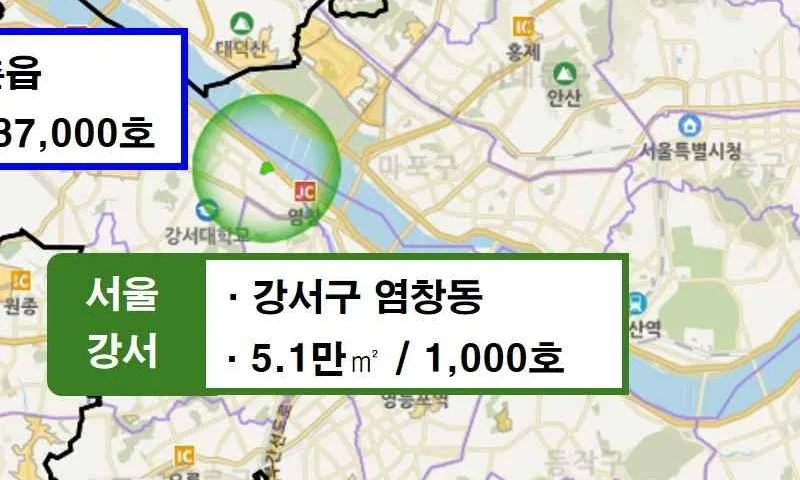
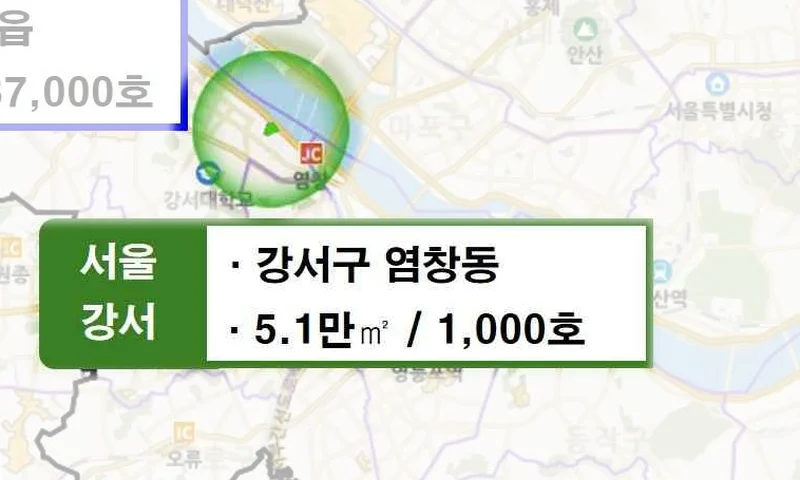
guide: 신규택지 지구별 설명 바로 아래에 그 지구 위치도 (지구만 또렷하게 다시 자름) + 그림 배치·편집 검수 규칙
Claude-Session: https://claude.ai/code/session_01BX5Lyfw1Hj3UPpyFh8mqbq

diff --git a/site/public/guide/new-taekji-2026/index.html b/site/public/guide/new-taekji-2026/index.html
@@ -44,7 +44,7 @@
       <span class="g-eyebrow"><i></i>신도시 가이드</span>
       <h1 class="g-h1">신규택지 후보지 6곳, 어디에 몇 호 짓고 언제 착공하나요?</h1>
       <p class="g-dek">국토교통부가 2026년 10월 29일 수도권 신규택지 6곳 7.67만 호를 발표했어요. 8·13 대책 3곳까지 약 10.4만 호의 위치와 착공 일정을 정리했어요.</p>
-      <p class="g-meta"><b>줍줍알람 편집팀</b><span>2026.10 기준</span><span>마지막 확인 2026.10.29</span><span>읽는 데 14분</span></p>
+      <p class="g-meta"><b>줍줍알람 편집팀</b><span>2026.10 기준</span><span>마지막 확인 2026.10.29</span><span>읽는 데 15분</span></p>
     </header>
     <figure class="g-cover">
       <div class="g-cover-wide"><svg viewBox='0 0 640 340' xmlns='http://www.w3.org/2000/svg' role='img' aria-label='서울 주변 신규택지 후보지 9곳 개략도'><rect width='640' height='340' fill='#FFFFFF'/><circle cx='190' cy='16' r='6' fill='#FF5233'/><text x='202' y='20' font-size='12' fill='#5B6472'>이번 발표 6곳 (2026.10.29)</text><circle cx='392' cy='16' r='6' fill='#FFFFFF' stroke='#1E4FD8' stroke-width='2' stroke-dasharray='3 2'/><text x='404' y='20' font-size='12' fill='#5B6472'>8·13 대책 3곳 (2026.8.13)</text><ellipse cx='300' cy='175' rx='95' ry='62' fill='#F4F6F9' stroke='#9AA3B2' stroke-width='1.5'/><text x='300' y='168' font-size='20' font-weight='700' fill='#0F1E3D' text-anchor='middle'>서울</text><text x='306' y='194' font-size='12' fill='#5B6472' text-anchor='middle'>개략도 · 실제 지도 아님</text><line x1='320' y1='108' x2='320' y2='82' stroke='#9AA3B2' stroke-width='1'/><line x1='228' y1='128' x2='184' y2='61' stroke='#9AA3B2' stroke-width='1'/><line x1='196' y1='160' x2='162' y2='131' stroke='#9AA3B2' stroke-width='1'/><line x1='222' y1='166' x2='162' y2='217' stroke='#9AA3B2' stroke-width='1'/><line x1='380' y1='128' x2='478' y2='55' stroke='#9AA3B2' stroke-width='1'/><line x1='414' y1='150' x2='478' y2='107' stroke='#9AA3B2' stroke-width='1'/><line x1='400' y1='182' x2='478' y2='159' stroke='#9AA3B2' stroke-width='1'/><line x1='378' y1='214' x2='478' y2='211' stroke='#9AA3B2' stroke-width='1'/><line x1='372' y1='258' x2='478' y2='263' stroke='#9AA3B2' stroke-width='1'/><circle cx='320' cy='108' r='6' fill='#FF5233'/><rect x='240' y='40' width='160' height='42' rx='8' fill='#FFF1EC' stroke='#FF5233' stroke-width='1.2'/><text x='252' y='58' font-size='14' font-weight='700' fill='#0F1E3D'>의정부다락원</text><text x='252' y='74' font-size='12' fill='#5B6472'>2,600호 · 28만㎡</text><circle cx='228' cy='128' r='6' fill='#FF5233'/><rect x='12' y='40' width='172' height='42' rx='8' fill='#FFF1EC' stroke='#FF5233' stroke-width='1.2'/><text x='24' y='58' font-size='13' font-weight='700' fill='#0F1E3D'>고양대곡지식융합(확장)</text><text x='24' y='74' font-size='12' fill='#5B6472'>4,000호 · 42만㎡</text><circle cx='196' cy='160' r='6' fill='#FF5233'/><rect x='12' y='110' width='150' height='42' rx='8' fill='#FFF1EC' stroke='#FF5233' stroke-width='1.2'/><text x='24' y='128' font-size='14' font-weight='700' fill='#0F1E3D'>김포아라</text><text x='24' y='144' font-size='12' fill='#5B6472'>3.7만 호 · 365만㎡</text><circle cx='222' cy='166' r='6' fill='#FFFFFF' stroke='#1E4FD8' stroke-width='2' stroke-dasharray='3 2'/><rect x='12' y='196' width='150' height='42' rx='8' fill='#FFFFFF' stroke='#1E4FD8' stroke-width='1.2' stroke-dasharray='4 3'/><text x='24' y='214' font-size='14' font-weight='700' fill='#0F1E3D'>서울강서</text><text x='24' y='230' font-size='12' fill='#5B6472'>1,000호 · 5.1만㎡</text><circle cx='380' cy='128' r='6' fill='#FF5233'/><rect x='478' y='34' width='150' height='42' rx='8' fill='#FFF1EC' stroke='#FF5233' stroke-width='1.2'/><text x='490' y='52' font-size='14' font-weight='700' fill='#0F1E3D'>구리건원</text><text x='490' y='68' font-size='12' fill='#5B6472'>1.46만 호 · 144만㎡</text><circle cx='414' cy='150' r='6' fill='#FFFFFF' stroke='#1E4FD8' stroke-width='2' stroke-dasharray='3 2'/><rect x='478' y='86' width='150' height='42' rx='8' fill='#FFFFFF' stroke='#1E4FD8' stroke-width='1.2' stroke-dasharray='4 3'/><text x='490' y='104' font-size='14' font-weight='700' fill='#0F1E3D'>남양주도심</text><text x='490' y='120' font-size='12' fill='#5B6472'>2.17만 호 · 228만㎡</text><circle cx='400' cy='182' r='6' fill='#FF5233'/><rect x='478' y='138' width='150' height='42' rx='8' fill='#FFF1EC' stroke='#FF5233' stroke-width='1.2'/><text x='490' y='156' font-size='14' font-weight='700' fill='#0F1E3D'>하남미사 K-컬처</text><text x='490' y='172' font-size='12' fill='#5B6472'>1.2만 호 · 131만㎡</text><circle cx='378' cy='214' r='6' fill='#FF5233'/><rect x='478' y='190' width='150' height='42' rx='8' fill='#FFF1EC' stroke='#FF5233' stroke-width='1.2'/><text x='490' y='208' font-size='14' font-weight='700' fill='#0F1E3D'>하남감일2</text><text x='490' y='224' font-size='12' fill='#5B6472'>6,500호 · 71만㎡</text><circle cx='372' cy='258' r='6' fill='#FFFFFF' stroke='#1E4FD8' stroke-width='2' stroke-dasharray='3 2'/><rect x='478' y='242' width='150' height='42' rx='8' fill='#FFFFFF' stroke='#1E4FD8' stroke-width='1.2' stroke-dasharray='4 3'/><text x='490' y='260' font-size='14' font-weight='700' fill='#0F1E3D'>광주역세권2</text><text x='490' y='276' font-size='12' fill='#5B6472'>4,500호 · 48만㎡</text><line x1='16' y1='300' x2='624' y2='300' stroke='#E3E7ED' stroke-width='1'/><text x='320' y='324' font-size='14' fill='#0F1E3D' text-anchor='middle'><tspan font-weight='700' fill='#C8361A'>이번 6곳 7.67만 호</tspan> + 8·13 대책 3곳 2.72만 호 = <tspan font-weight='700'>약 10.4만 호</tspan></text></svg></div>
@@ -117,19 +117,29 @@
 <p>계획 호수는 후보지 단계 숫자라, 지구계획(「공공주택 특별법」 제17조)의 주택 수용계획에서 달라질 수 있어요.</p>
 <aside class="g-note"><b>&#x27;4기 신도시&#x27;는 공식 이름이 아니에요</b><p>'4기 신도시'라고 부르는 경우도 있지만, 국토교통부 보도자료에는 '신도시'가 아니라 '신규택지 후보지'라고 나와요. 법적으로는 「공공주택 특별법」에 따른 공공주택지구로 지정될 후보지예요. 3기 신도시 일정과 비교하려면 <a href="/guide/new-town-3rd/">3기 신도시 총정리</a>를 함께 보세요.</p></aside>
 <h2 id="s2"><span class="n">02</span>김포 고촌·구리 사노동·하남 감일·대곡역세권, 지구별로 뭐가 다른가요?</h2>
-<ul>
-<li><strong>김포아라(김포 고촌읍)</strong>: 서울 강서구와 맞닿은 한강변이에요. 인근 5호선 연장사업이 2026년 3월 예비타당성조사를 통과했고, 발표 브리핑에서는 경기도가 기본계획 수립에 들어갔다고 설명했어요(보도 기준). 한강시네폴리스 일반산업단지·고촌 물류단지와 연계한 자족형 생활권이 목표예요.</li>
-<li><strong>구리건원(구리 사노동)</strong>: 원래 '구리 E-커머스 신성장 첨단도시 조성사업'을 추진하던 곳이에요. 사업성 부족 등으로 오래 보류돼, 공공주택사업지구로 방식을 바꿔 조성할 예정이에요. 용암천·왕숙천 수변생활권과 농수산물도매시장 이전 검토가 함께 나왔어요.</li>
-<li><strong>하남미사 K-컬처(하남 미사동)</strong>: 미사섬 인근으로 5호선이 지나고, 주변에서 3호선·9호선 연장사업이 추진 중이에요. 미사경정공원·한강 수변 공원과 K-컬처 복합단지 구축방안을 함께 마련한다고 했어요.</li>
-<li><strong>하남감일2(하남 감일동)</strong>: 감이천을 따라 올림픽공원·한강으로 가기 좋은 곳이에요. 감일지구에서 추진 중인 3호선 연장사업과 연계하고, 기존 감일지구와 하나의 생활권으로 묶는다는 계획이에요. 하남교산 광역교통개선대책과 연계한 서하남IC 개선 검토도 언급됐어요.</li>
-<li><strong>고양대곡지식융합(확장, 고양 대곡동)</strong>: 대곡역은 GTX-A·3호선 등 5개 철도 노선이 만나는 역이에요. 2026년 9월 지구지정된 기존 지구는 대곡역 북측만 포함해, 남측 부지 일부를 더해 통합 역세권으로 개발한다는 설명이에요.</li>
-<li><strong>의정부다락원(의정부 호원동)</strong>: 주한미군 반환공여지인 캠프잭슨이 포함된 부지예요. 1·7호선 환승역인 도봉산역과 가깝다고 발표됐어요.</li>
-</ul>
-<div class="g-img"><div class="g-gal"><figure><a href="gimpo-ara.webp" target="_blank" rel="noopener"><img src="gimpo-ara.webp" alt="김포아라 · 김포시 고촌읍 · 365만㎡ · 3만7,000호" loading="lazy" decoding="async" width="800" height="480"></a><figcaption>김포아라 · 김포시 고촌읍 · 365만㎡ · 3만7,000호</figcaption></figure><figure><a href="guri-geonwon.webp" target="_blank" rel="noopener"><img src="guri-geonwon.webp" alt="구리건원 · 구리시 사노동 · 144만㎡ · 1만4,600호" loading="lazy" decoding="async" width="800" height="480"></a><figcaption>구리건원 · 구리시 사노동 · 144만㎡ · 1만4,600호</figcaption></figure><figure><a href="hanam-misa.webp" target="_blank" rel="noopener"><img src="hanam-misa.webp" alt="하남미사 K-컬처 · 하남시 미사동 · 131만㎡ · 1만2,000호" loading="lazy" decoding="async" width="800" height="480"></a><figcaption>하남미사 K-컬처 · 하남시 미사동 · 131만㎡ · 1만2,000호</figcaption></figure><figure><a href="hanam-gamil2.webp" target="_blank" rel="noopener"><img src="hanam-gamil2.webp" alt="하남감일2 · 하남시 감일동 · 71만㎡ · 6,500호" loading="lazy" decoding="async" width="800" height="480"></a><figcaption>하남감일2 · 하남시 감일동 · 71만㎡ · 6,500호</figcaption></figure><figure><a href="goyang-daegok.webp" target="_blank" rel="noopener"><img src="goyang-daegok.webp" alt="고양대곡지식융합(확장) · 고양시 대곡동 · 42만㎡ · 4,000호" loading="lazy" decoding="async" width="800" height="480"></a><figcaption>고양대곡지식융합(확장) · 고양시 대곡동 · 42만㎡ · 4,000호</figcaption></figure><figure><a href="uijeongbu-darakwon.webp" target="_blank" rel="noopener"><img src="uijeongbu-darakwon.webp" alt="의정부다락원 · 의정부시 호원동 · 28만㎡ · 2,600호" loading="lazy" decoding="async" width="800" height="480"></a><figcaption>의정부다락원 · 의정부시 호원동 · 28만㎡ · 2,600호</figcaption></figure></div><p class="g-imgcap">지구별 위치 — 국토교통부 보도자료 위치도에서 지구 주변을 확대한 그림이에요.</p></div>
-<p>하남감일2는 지구 경계와 개발 방향을 그린 개발구상(안)도 함께 공개됐어요. 그림에는 감이천과 서하남IC, 3호선 연장(예정) 노선과 예정 역 위치가 함께 표시돼 있어요. 구상안은 지구지정·지구계획 과정에서 바뀔 수 있어요.</p>
-<div class="g-img"><div class="g-one"><figure><a href="hanam-gamil2-plan.webp" target="_blank" rel="noopener"><img src="hanam-gamil2-plan.webp" alt="하남감일2 개발구상(안) (국토교통부)" loading="lazy" decoding="async" width="736" height="754"></a></figure></div><p class="g-imgcap">하남감일2 개발구상(안) — 국토교통부 발표 자료(2026.10.29). 지구계획 과정에서 바뀔 수 있어요.</p></div>
+<p>6곳을 하나씩 볼게요. 지구마다 위치도를 바로 아래에 붙였어요 (진하게 보이는 곳이 그 지구예요).</p>
+<h3>김포아라 — 김포시 고촌읍 · 365만㎡ · 3만7,000호</h3>
+<p>서울 강서구와 맞닿은 한강변이에요. 인근 5호선 연장사업이 2026년 3월 예비타당성조사를 통과했고, 발표 브리핑에서는 경기도가 기본계획 수립에 들어갔다고 설명했어요(보도 기준). 한강시네폴리스 일반산업단지·고촌 물류단지와 연계한 자족형 생활권이 목표예요.</p>
+<div class="g-img"><div class="g-one"><figure><a href="gimpo-ara.webp" target="_blank" rel="noopener"><img src="gimpo-ara.webp" alt="김포아라 위치 (김포시 고촌읍)" loading="lazy" decoding="async" width="800" height="480"></a></figure></div><p class="g-imgcap">김포아라 위치 (김포시 고촌읍) — 국토교통부 보도자료(2026.10.29) 위치도에서 이 지구를 확대했어요.</p></div>
 <p><strong>김포아라와 김포한강2는 다른 곳이에요.</strong> 김포에는 2022.11.11 발표된 '김포한강2 콤팩트시티'(731만㎡, 4만 6,000호)가 따로 있어요. 김포한강2의 발표 위치는 마산동·운양동·장기동·양촌읍 일대이고, 김포아라는 고촌읍이에요.</p>
-<p>구리도 비슷해요. 2023.11.15 발표된 구리토평2(1만 8,500가구)와 이번 구리건원(사노동)은 서로 다른 시기에 따로 나온 후보지예요.</p>
+<h3>구리건원 — 구리시 사노동 · 144만㎡ · 1만4,600호</h3>
+<p>원래 '구리 E-커머스 신성장 첨단도시 조성사업'을 추진하던 곳이에요. 사업성 부족 등으로 오래 보류돼, 공공주택사업지구로 방식을 바꿔 조성할 예정이에요. 용암천·왕숙천 수변생활권과 농수산물도매시장 이전 검토가 함께 나왔어요.</p>
+<div class="g-img"><div class="g-one"><figure><a href="guri-geonwon.webp" target="_blank" rel="noopener"><img src="guri-geonwon.webp" alt="구리건원 위치 (구리시 사노동)" loading="lazy" decoding="async" width="800" height="480"></a></figure></div><p class="g-imgcap">구리건원 위치 (구리시 사노동) — 국토교통부 보도자료(2026.10.29) 위치도에서 이 지구를 확대했어요.</p></div>
+<p>2023.11.15 발표된 구리토평2(1만 8,500가구)와 이번 구리건원(사노동)은 서로 다른 시기에 따로 나온 후보지예요.</p>
+<h3>하남미사 K-컬처 — 하남시 미사동 · 131만㎡ · 1만2,000호</h3>
+<p>미사섬 인근으로 5호선이 지나고, 주변에서 3호선·9호선 연장사업이 추진 중이에요. 미사경정공원·한강 수변 공원과 K-컬처 복합단지 구축방안을 함께 마련한다고 했어요.</p>
+<div class="g-img"><div class="g-one"><figure><a href="hanam-misa.webp" target="_blank" rel="noopener"><img src="hanam-misa.webp" alt="하남미사 K-컬처 위치 (하남시 미사동)" loading="lazy" decoding="async" width="800" height="480"></a></figure></div><p class="g-imgcap">하남미사 K-컬처 위치 (하남시 미사동) — 국토교통부 보도자료(2026.10.29) 위치도에서 이 지구를 확대했어요.</p></div>
+<h3>하남감일2 — 하남시 감일동 · 71만㎡ · 6,500호</h3>
+<p>감이천을 따라 올림픽공원·한강으로 가기 좋은 곳이에요. 감일지구에서 추진 중인 3호선 연장사업과 연계하고, 기존 감일지구와 하나의 생활권으로 묶는다는 계획이에요. 하남교산 광역교통개선대책과 연계한 서하남IC 개선 검토도 언급됐어요.</p>
+<div class="g-img"><div class="g-one"><figure><a href="hanam-gamil2.webp" target="_blank" rel="noopener"><img src="hanam-gamil2.webp" alt="하남감일2 위치 (하남시 감일동)" loading="lazy" decoding="async" width="800" height="480"></a></figure></div><p class="g-imgcap">하남감일2 위치 (하남시 감일동) — 국토교통부 보도자료(2026.10.29) 위치도에서 이 지구를 확대했어요.</p></div>
+<p>하남감일2는 지구 경계와 개발 방향을 그린 개발구상(안)도 함께 볼 수 있어요. 그림에는 감이천과 서하남IC, 3호선 연장(예정) 노선과 예정 역 위치가 표시돼 있어요. 구상안은 지구지정·지구계획 과정에서 바뀔 수 있어요.</p>
+<div class="g-img"><div class="g-one"><figure><a href="hanam-gamil2-plan.webp" target="_blank" rel="noopener"><img src="hanam-gamil2-plan.webp" alt="하남감일2 개발구상(안) (국토교통부)" loading="lazy" decoding="async" width="736" height="754"></a></figure></div><p class="g-imgcap">하남감일2 개발구상(안) — 국토교통부 발표 자료(2026.10.29). 지구계획 과정에서 바뀔 수 있어요.</p></div>
+<h3>고양대곡지식융합(확장) — 고양시 대곡동 · 42만㎡ · 4,000호</h3>
+<p>대곡역은 GTX-A·3호선 등 5개 철도 노선이 만나는 역이에요. 2026년 9월 지구지정된 기존 지구는 대곡역 북측만 포함해, 남측 부지 일부를 더해 통합 역세권으로 개발한다는 설명이에요.</p>
+<div class="g-img"><div class="g-one"><figure><a href="goyang-daegok.webp" target="_blank" rel="noopener"><img src="goyang-daegok.webp" alt="고양대곡지식융합(확장) 위치 (고양시 대곡동)" loading="lazy" decoding="async" width="800" height="480"></a></figure></div><p class="g-imgcap">고양대곡지식융합(확장) 위치 (고양시 대곡동) — 국토교통부 보도자료(2026.10.29) 위치도에서 이 지구를 확대했어요.</p></div>
+<h3>의정부다락원 — 의정부시 호원동 · 28만㎡ · 2,600호</h3>
+<p>주한미군 반환공여지인 캠프잭슨이 포함된 부지예요. 1·7호선 환승역인 도봉산역과 가깝다고 발표됐어요.</p>
+<div class="g-img"><div class="g-one"><figure><a href="uijeongbu-darakwon.webp" target="_blank" rel="noopener"><img src="uijeongbu-darakwon.webp" alt="의정부다락원 위치 (의정부시 호원동)" loading="lazy" decoding="async" width="800" height="480"></a></figure></div><p class="g-imgcap">의정부다락원 위치 (의정부시 호원동) — 국토교통부 보도자료(2026.10.29) 위치도에서 이 지구를 확대했어요.</p></div>
 <h2 id="s3"><span class="n">03</span>8·13 대책 3곳까지 합치면 10.4만 호, 일정은요?</h2>
 <p>8·13 대책에서는 신규 공공주택지구 2.7만 호의 위치를 먼저 공개하고, 나머지 7.3만 호+α는 연내 추가 발표한다고 했어요. 이번에 나온 물량이 7.67만 호예요.</p>
 <div class="tbl"><table class="g-table">
@@ -166,8 +176,15 @@
 </tr>
 </tbody>
 </table></div>
-<div class="g-img"><div class="g-gal"><figure><a href="seoul-gangseo.webp" target="_blank" rel="noopener"><img src="seoul-gangseo.webp" alt="서울강서 · 강서구 염창동 · 5.1만㎡ · 1,000호" loading="lazy" decoding="async" width="800" height="480"></a><figcaption>서울강서 · 강서구 염창동 · 5.1만㎡ · 1,000호</figcaption></figure><figure><a href="namyangju-dosim.webp" target="_blank" rel="noopener"><img src="namyangju-dosim.webp" alt="남양주도심 · 남양주시 와부읍 · 228만㎡ · 2만1,700호" loading="lazy" decoding="async" width="800" height="480"></a><figcaption>남양주도심 · 남양주시 와부읍 · 228만㎡ · 2만1,700호</figcaption></figure><figure><a href="gwangju-station2.webp" target="_blank" rel="noopener"><img src="gwangju-station2.webp" alt="광주역세권2 · 광주시 장지동 · 48만㎡ · 4,500호" loading="lazy" decoding="async" width="800" height="480"></a><figcaption>광주역세권2 · 광주시 장지동 · 48만㎡ · 4,500호</figcaption></figure></div><p class="g-imgcap">8·13 대책 3곳 위치 — 국토교통부 보도자료(2026.10.29) 위치도 확대</p></div>
-<p>서울강서는 2006년 민간 개발사업이 취소된 뒤 20년간 방치된 염창공원 부지예요. 남양주도심은 경의중앙선 도심역과 가깝고 고려대학교 덕소농장이 있는 그린벨트 지역이에요. 광주역세권2는 경강선 경기광주역 인접지이고, 수서-광주선이 2031년 개통 예정이라고 했어요.</p>
+<h3>서울강서 — 서울 강서구 염창동 · 5.1만㎡ · 1,000호</h3>
+<p>2006년 민간 개발사업이 취소된 뒤 20년간 방치된 염창공원 부지예요.</p>
+<div class="g-img"><div class="g-one"><figure><a href="seoul-gangseo.webp" target="_blank" rel="noopener"><img src="seoul-gangseo.webp" alt="서울강서 위치 (강서구 염창동)" loading="lazy" decoding="async" width="800" height="480"></a></figure></div><p class="g-imgcap">서울강서 위치 (강서구 염창동) — 국토교통부 보도자료(2026.10.29) 위치도에서 이 지구를 확대했어요.</p></div>
+<h3>남양주도심 — 남양주시 와부읍 · 228만㎡ · 2만1,700호</h3>
+<p>경의중앙선 도심역과 가깝고 고려대학교 덕소농장이 있는 그린벨트 지역이에요.</p>
+<div class="g-img"><div class="g-one"><figure><a href="namyangju-dosim.webp" target="_blank" rel="noopener"><img src="namyangju-dosim.webp" alt="남양주도심 위치 (남양주시 와부읍)" loading="lazy" decoding="async" width="800" height="480"></a></figure></div><p class="g-imgcap">남양주도심 위치 (남양주시 와부읍) — 국토교통부 보도자료(2026.10.29) 위치도에서 이 지구를 확대했어요.</p></div>
+<h3>광주역세권2 — 광주시 장지동 · 48만㎡ · 4,500호</h3>
+<p>경강선 경기광주역 인접지이고, 수서-광주선이 2031년 개통 예정이라고 했어요.</p>
+<div class="g-img"><div class="g-one"><figure><a href="gwangju-station2.webp" target="_blank" rel="noopener"><img src="gwangju-station2.webp" alt="광주역세권2 위치 (광주시 장지동)" loading="lazy" decoding="async" width="800" height="480"></a></figure></div><p class="g-imgcap">광주역세권2 위치 (광주시 장지동) — 국토교통부 보도자료(2026.10.29) 위치도에서 이 지구를 확대했어요.</p></div>
 <p>세 곳 모두 사업시행자는 LH(예정), 호수는 '조정 가능'이에요. 9곳을 더하면 10만 3,900호이고, 국토교통부는 이를 '신규택지 10.4만호'로 묶었어요.</p>
 <h2 id="s4"><span class="n">04</span>신규택지 언제 착공하고 언제 분양하나요?</h2>
 <p>이번 6곳에는 8·13 대책에서 만든 '공공택지 최단기 착공모델'이 적용돼요. 지구지정 단계부터 단계별 조기화 방안을 적용해 2030년 안에 착공하는 게 목표예요.</p>

diff --git a/site/public/guide/index.html b/site/public/guide/index.html
@@ -168,7 +168,7 @@
           <span class="g-ct"><b>하남 교산신도시, 언제 누가 어떻게 청약하나요?</b><span>686만㎡에 3.7만 호, 첫 본청약은 2025년 3월 A-2BL 1,115세대. 송파하남선은 2032년 개통이 목표예요. 하남 거주자 우선 30%의 구조도 담았어요.</span><small>2026.10 기준 · 읽는 데 15분</small></span>
         </a>        <a class="g-card" href="/guide/new-taekji-2026/">
           <span class="g-thumb" aria-hidden="true"><svg viewBox='0 0 340 608' xmlns='http://www.w3.org/2000/svg' role='img' aria-label='서울 주변 신규택지 후보지 9곳 개략도'><rect width='340' height='608' fill='#FFFFFF'/><circle cx='22' cy='16' r='6' fill='#FF5233'/><text x='33' y='20' font-size='12' fill='#5B6472'>이번 발표 6곳</text><circle cx='150' cy='16' r='6' fill='#FFFFFF' stroke='#1E4FD8' stroke-width='2' stroke-dasharray='3 2'/><text x='161' y='20' font-size='12' fill='#5B6472'>8·13 대책 3곳</text><ellipse cx='170' cy='122' rx='70' ry='46' fill='#F4F6F9' stroke='#9AA3B2' stroke-width='1.5'/><text x='170' y='128' font-size='16' font-weight='700' fill='#0F1E3D' text-anchor='middle'>서울</text><circle cx='186.0' cy='68.4' r='10' fill='#FF5233'/><text x='186.0' y='72.4' font-size='12' font-weight='700' fill='#FFFFFF' text-anchor='middle'>6</text><circle cx='112.4' cy='84.4' r='10' fill='#FF5233'/><text x='112.4' y='88.4' font-size='12' font-weight='700' fill='#FFFFFF' text-anchor='middle'>5</text><circle cx='86.8' cy='110.0' r='10' fill='#FF5233'/><text x='86.8' y='114.0' font-size='12' font-weight='700' fill='#FFFFFF' text-anchor='middle'>1</text><circle cx='107.6' cy='114.8' r='10' fill='#FFFFFF' stroke='#1E4FD8' stroke-width='2' stroke-dasharray='3 2'/><text x='107.6' y='118.8' font-size='12' font-weight='700' fill='#1E4FD8' text-anchor='middle'>7</text><circle cx='234.0' cy='84.4' r='10' fill='#FF5233'/><text x='234.0' y='88.4' font-size='12' font-weight='700' fill='#FFFFFF' text-anchor='middle'>2</text><circle cx='261.2' cy='102.0' r='10' fill='#FFFFFF' stroke='#1E4FD8' stroke-width='2' stroke-dasharray='3 2'/><text x='261.2' y='106.0' font-size='12' font-weight='700' fill='#1E4FD8' text-anchor='middle'>8</text><circle cx='250.0' cy='127.6' r='10' fill='#FF5233'/><text x='250.0' y='131.6' font-size='12' font-weight='700' fill='#FFFFFF' text-anchor='middle'>3</text><circle cx='232.4' cy='153.2' r='10' fill='#FF5233'/><text x='232.4' y='157.2' font-size='12' font-weight='700' fill='#FFFFFF' text-anchor='middle'>4</text><circle cx='227.6' cy='188.4' r='10' fill='#FFFFFF' stroke='#1E4FD8' stroke-width='2' stroke-dasharray='3 2'/><text x='227.6' y='192.4' font-size='12' font-weight='700' fill='#1E4FD8' text-anchor='middle'>9</text><text x='170' y='216' font-size='12' fill='#5B6472' text-anchor='middle'>개략도 · 방향 감각만 나타냄 (실제 지도 아님)</text><line x1='16' y1='226' x2='324' y2='226' stroke='#E3E7ED' stroke-width='1'/><text x='16' y='252' font-size='13' font-weight='700' fill='#C8361A'>이번 발표 6곳 · 7.67만 호</text><circle cx='30' cy='280' r='10' fill='#FF5233'/><text x='30' y='284' font-size='12' font-weight='700' fill='#FFFFFF' text-anchor='middle'>1</text><text x='48' y='285' font-size='14' font-weight='700' fill='#0F1E3D'>김포아라</text><text x='324' y='285' font-size='12' fill='#5B6472' text-anchor='end'>3.7만 호 · 365만㎡</text><rect x='12' y='296' width='316' height='32' fill='#F4F6F9'/><circle cx='30' cy='312' r='10' fill='#FF5233'/><text x='30' y='316' font-size='12' font-weight='700' fill='#FFFFFF' text-anchor='middle'>2</text><text x='48' y='317' font-size='14' font-weight='700' fill='#0F1E3D'>구리건원</text><text x='324' y='317' font-size='12' fill='#5B6472' text-anchor='end'>1.46만 호 · 144만㎡</text><circle cx='30' cy='344' r='10' fill='#FF5233'/><text x='30' y='348' font-size='12' font-weight='700' fill='#FFFFFF' text-anchor='middle'>3</text><text x='48' y='349' font-size='14' font-weight='700' fill='#0F1E3D'>하남미사 K-컬처</text><text x='324' y='349' font-size='12' fill='#5B6472' text-anchor='end'>1.2만 호 · 131만㎡</text><rect x='12' y='360' width='316' height='32' fill='#F4F6F9'/><circle cx='30' cy='376' r='10' fill='#FF5233'/><text x='30' y='380' font-size='12' font-weight='700' fill='#FFFFFF' text-anchor='middle'>4</text><text x='48' y='381' font-size='14' font-weight='700' fill='#0F1E3D'>하남감일2</text><text x='324' y='381' font-size='12' fill='#5B6472' text-anchor='end'>6,500호 · 71만㎡</text><circle cx='30' cy='408' r='10' fill='#FF5233'/><text x='30' y='412' font-size='12' font-weight='700' fill='#FFFFFF' text-anchor='middle'>5</text><text x='48' y='413' font-size='13' font-weight='700' fill='#0F1E3D'>고양대곡지식융합(확장)</text><text x='324' y='413' font-size='12' fill='#5B6472' text-anchor='end'>4,000호 · 42만㎡</text><rect x='12' y='424' width='316' height='32' fill='#F4F6F9'/><circle cx='30' cy='440' r='10' fill='#FF5233'/><text x='30' y='444' font-size='12' font-weight='700' fill='#FFFFFF' text-anchor='middle'>6</text><text x='48' y='445' font-size='14' font-weight='700' fill='#0F1E3D'>의정부다락원</text><text x='324' y='445' font-size='12' fill='#5B6472' text-anchor='end'>2,600호 · 28만㎡</text><text x='16' y='484' font-size='13' font-weight='700' fill='#1E4FD8'>8·13 대책 3곳 · 2.72만 호</text><circle cx='30' cy='512' r='10' fill='#FFFFFF' stroke='#1E4FD8' stroke-width='2' stroke-dasharray='3 2'/><text x='30' y='516' font-size='12' font-weight='700' fill='#1E4FD8' text-anchor='middle'>7</text><text x='48' y='517' font-size='14' font-weight='700' fill='#0F1E3D'>서울강서</text><text x='324' y='517' font-size='12' fill='#5B6472' text-anchor='end'>1,000호 · 5.1만㎡</text><rect x='12' y='528' width='316' height='32' fill='#F4F6F9'/><circle cx='30' cy='544' r='10' fill='#FFFFFF' stroke='#1E4FD8' stroke-width='2' stroke-dasharray='3 2'/><text x='30' y='548' font-size='12' font-weight='700' fill='#1E4FD8' text-anchor='middle'>8</text><text x='48' y='549' font-size='14' font-weight='700' fill='#0F1E3D'>남양주도심</text><text x='324' y='549' font-size='12' fill='#5B6472' text-anchor='end'>2.17만 호 · 228만㎡</text><circle cx='30' cy='576' r='10' fill='#FFFFFF' stroke='#1E4FD8' stroke-width='2' stroke-dasharray='3 2'/><text x='30' y='580' font-size='12' font-weight='700' fill='#1E4FD8' text-anchor='middle'>9</text><text x='48' y='581' font-size='14' font-weight='700' fill='#0F1E3D'>광주역세권2</text><text x='324' y='581' font-size='12' fill='#5B6472' text-anchor='end'>4,500호 · 48만㎡</text></svg></span>
-          <span class="g-ct"><b>신규택지 후보지 6곳, 어디에 몇 호 짓고 언제 착공하나요?</b><span>국토교통부가 2026년 10월 29일 수도권 신규택지 6곳 7.67만 호를 발표했어요. 8·13 대책 3곳까지 약 10.4만 호의 위치와 착공 일정을 정리했어요.</span><small>2026.10 기준 · 읽는 데 14분</small></span>
+          <span class="g-ct"><b>신규택지 후보지 6곳, 어디에 몇 호 짓고 언제 착공하나요?</b><span>국토교통부가 2026년 10월 29일 수도권 신규택지 6곳 7.67만 호를 발표했어요. 8·13 대책 3곳까지 약 10.4만 호의 위치와 착공 일정을 정리했어요.</span><small>2026.10 기준 · 읽는 데 15분</small></span>
         </a>        <a class="g-card" href="/guide/new-town-3rd/">
           <span class="g-thumb" aria-hidden="true"><svg viewBox='0 0 340 530' xmlns='http://www.w3.org/2000/svg' role='img' aria-label='서울 주변 3기 신도시와 추가 지구 개략도'><rect width='340' height='530' fill='#FFFFFF'/><circle cx='22' cy='18' r='6' fill='#FF5233'/><text x='33' y='22' font-size='12' fill='#5B6472'>3기 신도시</text><circle cx='130' cy='18' r='6' fill='#FFFFFF' stroke='#1E4FD8' stroke-width='2' stroke-dasharray='3 2'/><text x='141' y='22' font-size='12' fill='#5B6472'>추가 지구</text><ellipse cx='170' cy='115' rx='76.0' ry='49.6' fill='#F4F6F9' stroke='#9AA3B2' stroke-width='1.5'/><text x='170' y='121' font-size='16' font-weight='700' fill='#0F1E3D' text-anchor='middle'>서울</text><text x='170' y='236' font-size='12' fill='#5B6472' text-anchor='middle'>개략도 · 방향과 거리 감각만 나타냄</text><line x1='16' y1='245' x2='324' y2='245' stroke='#E3E7ED' stroke-width='1'/><circle cx='66.0' cy='107.0' r='10' fill='#FF5233'/><text x='66.0' y='111.0' font-size='12' font-weight='700' fill='#FFFFFF' text-anchor='middle'>1</text><circle cx='30' cy='269.0' r='10' fill='#FF5233'/><text x='30' y='273.0' font-size='12' font-weight='700' fill='#FFFFFF' text-anchor='middle'>1</text><text x='50' y='274.0' font-size='14' font-weight='700' fill='#0F1E3D'>인천 계양</text><text x='322' y='274.0' font-size='13' fill='#5B6472' text-anchor='end'>1.8만 호 · 335만㎡</text><circle cx='106.0' cy='71.0' r='10' fill='#FF5233'/><text x='106.0' y='75.0' font-size='12' font-weight='700' fill='#FFFFFF' text-anchor='middle'>2</text><rect x='12' y='286' width='316' height='34' fill='#F4F6F9'/><circle cx='30' cy='303.0' r='10' fill='#FF5233'/><text x='30' y='307.0' font-size='12' font-weight='700' fill='#FFFFFF' text-anchor='middle'>2</text><text x='50' y='308.0' font-size='14' font-weight='700' fill='#0F1E3D'>고양 창릉</text><text x='322' y='308.0' font-size='13' fill='#5B6472' text-anchor='end'>3.8만 호 · 812만㎡</text><circle cx='258.0' cy='139.0' r='10' fill='#FF5233'/><text x='258.0' y='143.0' font-size='12' font-weight='700' fill='#FFFFFF' text-anchor='middle'>3</text><circle cx='30' cy='337.0' r='10' fill='#FF5233'/><text x='30' y='341.0' font-size='12' font-weight='700' fill='#FFFFFF' text-anchor='middle'>3</text><text x='50' y='342.0' font-size='14' font-weight='700' fill='#0F1E3D'>하남 교산</text><text x='322' y='342.0' font-size='13' fill='#5B6472' text-anchor='end'>3.7만 호 · 686만㎡</text><circle cx='88.4' cy='128.6' r='10' fill='#FF5233'/><text x='88.4' y='132.6' font-size='12' font-weight='700' fill='#FFFFFF' text-anchor='middle'>4</text><rect x='12' y='354' width='316' height='34' fill='#F4F6F9'/><circle cx='30' cy='371.0' r='10' fill='#FF5233'/><text x='30' y='375.0' font-size='12' font-weight='700' fill='#FFFFFF' text-anchor='middle'>4</text><text x='50' y='376.0' font-size='14' font-weight='700' fill='#0F1E3D'>부천 대장</text><text x='322' y='376.0' font-size='13' fill='#5B6472' text-anchor='end'>2.0만 호 · 345만㎡</text><circle cx='250.0' cy='67.0' r='10' fill='#FF5233'/><text x='250.0' y='71.0' font-size='12' font-weight='700' fill='#FFFFFF' text-anchor='middle'>5</text><circle cx='30' cy='405.0' r='10' fill='#FF5233'/><text x='30' y='409.0' font-size='12' font-weight='700' fill='#FFFFFF' text-anchor='middle'>5</text><text x='50' y='410.0' font-size='14' font-weight='700' fill='#0F1E3D'>남양주 왕숙</text><text x='322' y='410.0' font-size='13' fill='#5B6472' text-anchor='end'>6.4만 호 · 1,029만㎡</text><circle cx='259.6' cy='95.0' r='10' fill='#FF5233'/><text x='259.6' y='99.0' font-size='12' font-weight='700' fill='#FFFFFF' text-anchor='middle'>6</text><rect x='12' y='422' width='316' height='34' fill='#F4F6F9'/><circle cx='30' cy='439.0' r='10' fill='#FF5233'/><text x='30' y='443.0' font-size='12' font-weight='700' fill='#FFFFFF' text-anchor='middle'>6</text><text x='50' y='444.0' font-size='14' font-weight='700' fill='#0F1E3D'>남양주 왕숙2</text><text x='322' y='444.0' font-size='13' fill='#5B6472' text-anchor='end'>1.6만 호 · 239만㎡</text><circle cx='118.0' cy='163.0' r='10' fill='#FFFFFF' stroke='#1E4FD8' stroke-width='2' stroke-dasharray='3 2'/><text x='118.0' y='167.0' font-size='12' font-weight='700' fill='#1E4FD8' text-anchor='middle'>7</text><circle cx='30' cy='473.0' r='10' fill='#FFFFFF' stroke='#1E4FD8' stroke-width='2' stroke-dasharray='3 2'/><text x='30' y='477.0' font-size='12' font-weight='700' fill='#1E4FD8' text-anchor='middle'>7</text><text x='50' y='478.0' font-size='14' font-weight='700' fill='#0F1E3D'>광명시흥</text><text x='322' y='478.0' font-size='13' fill='#5B6472' text-anchor='end'>6.7만 호 · 1,271만㎡</text><circle cx='154.0' cy='208.6' r='10' fill='#FFFFFF' stroke='#1E4FD8' stroke-width='2' stroke-dasharray='3 2'/><text x='154.0' y='212.6' font-size='12' font-weight='700' fill='#1E4FD8' text-anchor='middle'>8</text><rect x='12' y='490' width='316' height='34' fill='#F4F6F9'/><circle cx='30' cy='507.0' r='10' fill='#FFFFFF' stroke='#1E4FD8' stroke-width='2' stroke-dasharray='3 2'/><text x='30' y='511.0' font-size='12' font-weight='700' fill='#1E4FD8' text-anchor='middle'>8</text><text x='50' y='512.0' font-size='14' font-weight='700' fill='#0F1E3D'>의왕군포안산</text><text x='322' y='512.0' font-size='13' fill='#5B6472' text-anchor='end'>41,518호 · 597만㎡</text></svg></span>
           <span class="g-ct"><b>3기 신도시, 어디에 얼마나 짓고 언제 들어가나요?</b><span>왕숙·왕숙2·교산·계양·창릉·대장 6개 지구 약 19.3만 호. 첫 본청약은 2024년 9월 계양, 첫 입주는 2026년 12월 계양 예정이에요. 지구별 일정과 청약 조건을 정리했어요.</span><small>2026.10 기준 · 읽는 데 8분</small></span>
